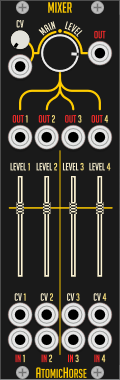
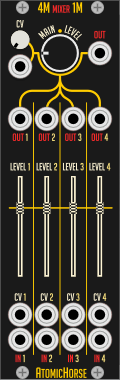
Изменения дизайна микшера 4 моно в 1 моно

Changed region(s): [[0.05, 0.2605, 0.95, 0.9263], [0.3, 0.0, 0.7, 0.2026]]

diff --git a/src/mixer-4m-1m.cpp b/src/mixer-4m-1m.cpp
@@ -27,7 +27,7 @@ Mixer4m1m_Widget::Mixer4m1m_Widget(Mixer4m1m* module) {
 	addOutput(createOutputCentered<PJ301MPort>(mm2px(Vec(33.82, 18.0)), module, Mixer4m1m::JACK_MAIN_OUTPUT));
 
 	for (int track = 0; track < TRACKS_NUMBER; track++) {
-		addOutput(createOutputCentered<PJ301MPort>(mm2px(Vec(6.82 + 9 * track,  46.464)), module, Mixer4m1m::JACK_OUT_OUTPUT + track));
+		addOutput(createOutputCentered<PJ301MPort>(mm2px(Vec(6.82 + 9 * track,  40.250)), module, Mixer4m1m::JACK_OUT_OUTPUT + track));
 		addParam(createParamCentered<Mixer4m1m::MixerLevel>(mm2px(Vec(6.82 + 9 * track, 76.630)), module, Mixer4m1m::FADER_LEVEL_PARAM + track));
 		addInput(createInputCentered<PJ301MPort>(mm2px(Vec(6.82 + 9 * track, 106.566)), module, Mixer4m1m::JACK_CV_INPUT + track));
 		addInput(createInputCentered<PJ301MPort>(mm2px(Vec(6.82 + 9 * track, 115.061)), module, Mixer4m1m::JACK_IN_INPUT + track));
